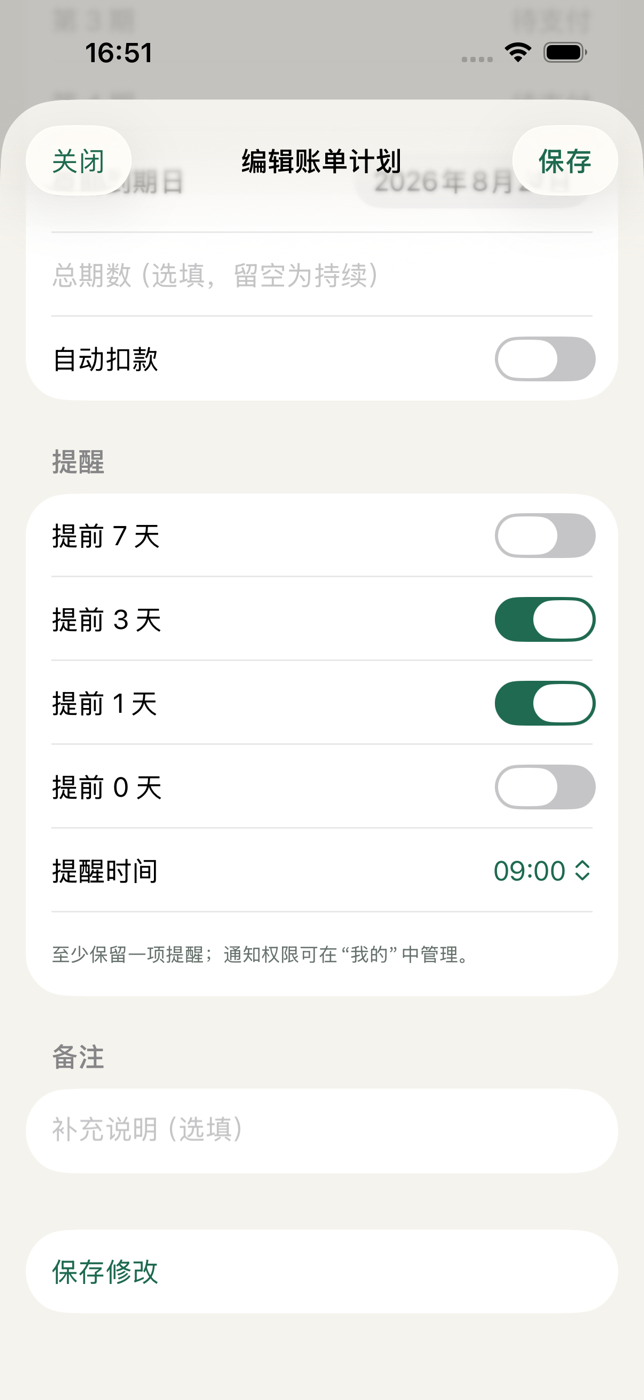
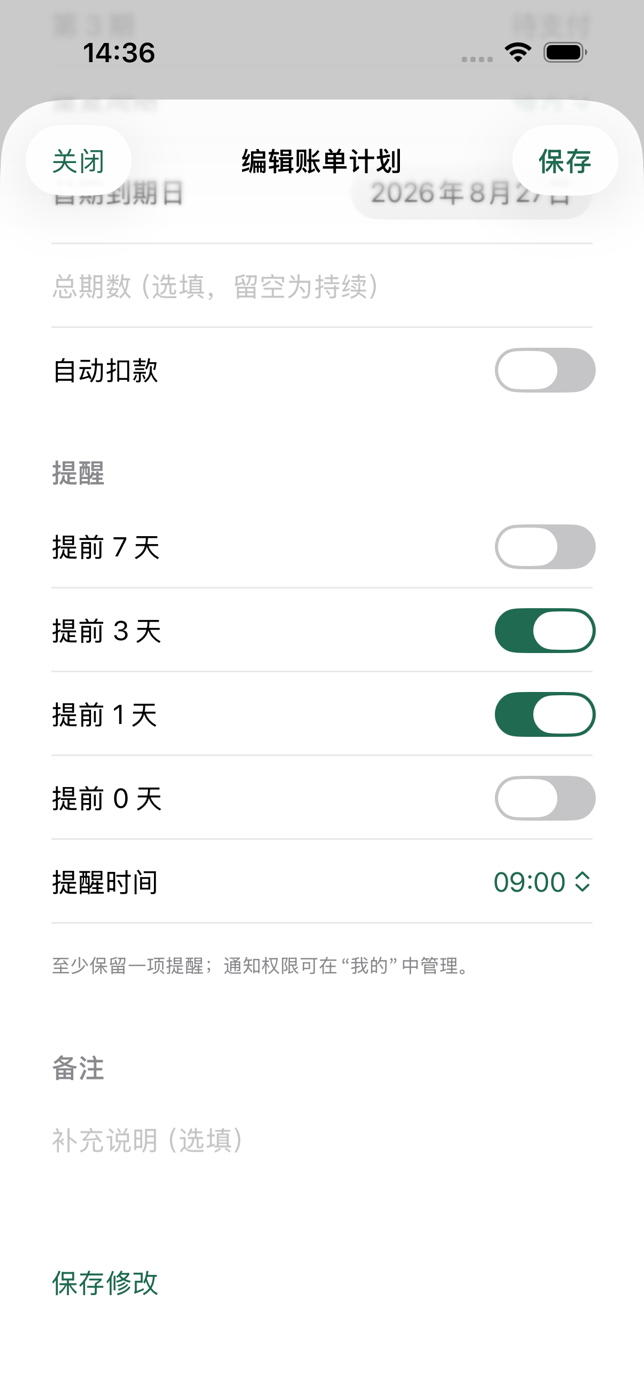
docs: refresh native app screenshots

diff --git a/README.md b/README.md
@@ -11,7 +11,8 @@ The primary client is now built with SwiftUI and SwiftData. It opens without log
 ## Current capabilities
 
 - Home dashboard focused on the next payment, overdue items, monthly progress, and upcoming bills.
-- Calendar and bill-plan views with pending, completed, paused, and archived states.
+- Calendar and bill-plan views with generated payment periods plus pending, completed, paused, and archived states.
+- Dedicated system search for bill names, institutions, card suffixes, dates, and statuses.
 - Create and edit recurring plans for credit cards, mortgages, loans, insurance, subscriptions, and other fixed payments.
 - Monthly, quarterly, yearly, and installment schedules with optional total installment counts.
 - Explicit unknown-amount handling so missing amounts are never counted as zero.
@@ -22,21 +23,26 @@ The primary client is now built with SwiftUI and SwiftData. It opens without log
 
 ## Latest update
 
-- Fixed bill-plan filter chips so unselected groups keep readable text on physical iPhones.
-- Restored the native iOS app icon asset for the home screen.
-- Verified the simulator test suite and installed/launched the updated build on an iPhone 16 Pro.
+- Rebuilt the native home experience around a compact greeting, the next payment, monthly progress, and upcoming bills.
+- Materialized recurring bill plans into payment periods so due dates now appear in the calendar.
+- Added a dedicated system search surface and a system-native white/black appearance, with Liquid Glass navigation on iOS 26 where supported.
+- Refreshed the screenshot set from the current build and verified 34 simulator tests with zero failures.
 
 ## Screenshots
 
 Captured from the native SwiftUI app on the iPhone 17 Simulator running iOS 26.5.
 
-| Home | Create a bill | Bill details |
+| Light home | Dark home | Calendar |
 | --- | --- | --- |
-| <img src="docs/screenshots/native-ios/home.png" alt="DueDay native home screen" width="220"> | <img src="docs/screenshots/native-ios/bill-form.png" alt="DueDay native create bill screen" width="220"> | <img src="docs/screenshots/native-ios/bill-detail.png" alt="DueDay native bill details screen" width="220"> |
+| <img src="docs/screenshots/native-ios/home.png" alt="DueDay native light home screen" width="220"> | <img src="docs/screenshots/native-ios/home-dark.png" alt="DueDay native dark home screen" width="220"> | <img src="docs/screenshots/native-ios/calendar.png" alt="DueDay native bill calendar" width="220"> |
 
-| Edit a bill | Local notification | Backup and restore |
+| Bill plans | Search | Create a bill |
 | --- | --- | --- |
-| <img src="docs/screenshots/native-ios/bill-edit.png" alt="DueDay native edit bill screen" width="220"> | <img src="docs/screenshots/native-ios/local-notification.png" alt="DueDay local notification banner" width="220"> | <img src="docs/screenshots/native-ios/backup.png" alt="DueDay backup and restore screen" width="220"> |
+| <img src="docs/screenshots/native-ios/bills.png" alt="DueDay native bill plans" width="220"> | <img src="docs/screenshots/native-ios/search.png" alt="DueDay native bill search" width="220"> | <img src="docs/screenshots/native-ios/bill-form.png" alt="DueDay native create bill screen" width="220"> |
+
+| Bill details | Local notification | Backup and restore |
+| --- | --- | --- |
+| <img src="docs/screenshots/native-ios/bill-detail.png" alt="DueDay native bill details screen" width="220"> | <img src="docs/screenshots/native-ios/local-notification.png" alt="DueDay local notification banner" width="220"> | <img src="docs/screenshots/native-ios/backup.png" alt="DueDay backup and restore screen" width="220"> |
 
 ## Product principles
 
@@ -94,11 +100,11 @@ Command-line verification:
 ```bash
 cd native-ios
 xcodebuild -project DueDay.xcodeproj -scheme DueDay \
-  -destination 'platform=iOS Simulator,name=iPhone 17,OS=26.5' \
-  CODE_SIGNING_ALLOWED=NO test
+  -destination 'platform=iOS Simulator,name=iPhone 17 Pro,OS=26.5' \
+  test
 ```
 
-The checked-in simulator acceptance baseline is 29 passing tests: 27 unit tests and 2 end-to-end UI tests. The main flow also passes in Dark Mode with accessibility extra-large Dynamic Type. Physical-device notification, iCloud document access, sharing, background delivery, and lock-screen presentation still require manual acceptance testing.
+The checked-in simulator acceptance baseline is 34 passing tests: 31 unit tests and 3 end-to-end UI tests. The current build has also been visually captured in both Light and Dark appearance. Physical-device notification, iCloud document access, sharing, background delivery, and lock-screen presentation still require manual acceptance testing.
 
 ## Run the preserved Flutter client
 
@@ -130,7 +136,7 @@ Flutter v1 backup migration is supported through **Profile → Backup & Restore 
 
 ## Status
 
-Open-source, personal-use iOS MVP. The native version has completed simulator acceptance and a physical-device install/launch smoke test; final visual acceptance on the device is still pending.
+Open-source, personal-use iOS MVP. The native version has completed simulator acceptance, and the latest signed build has been installed on an iPhone 16 Pro. Final visual acceptance on the device is still pending.
 
 ## License
 
